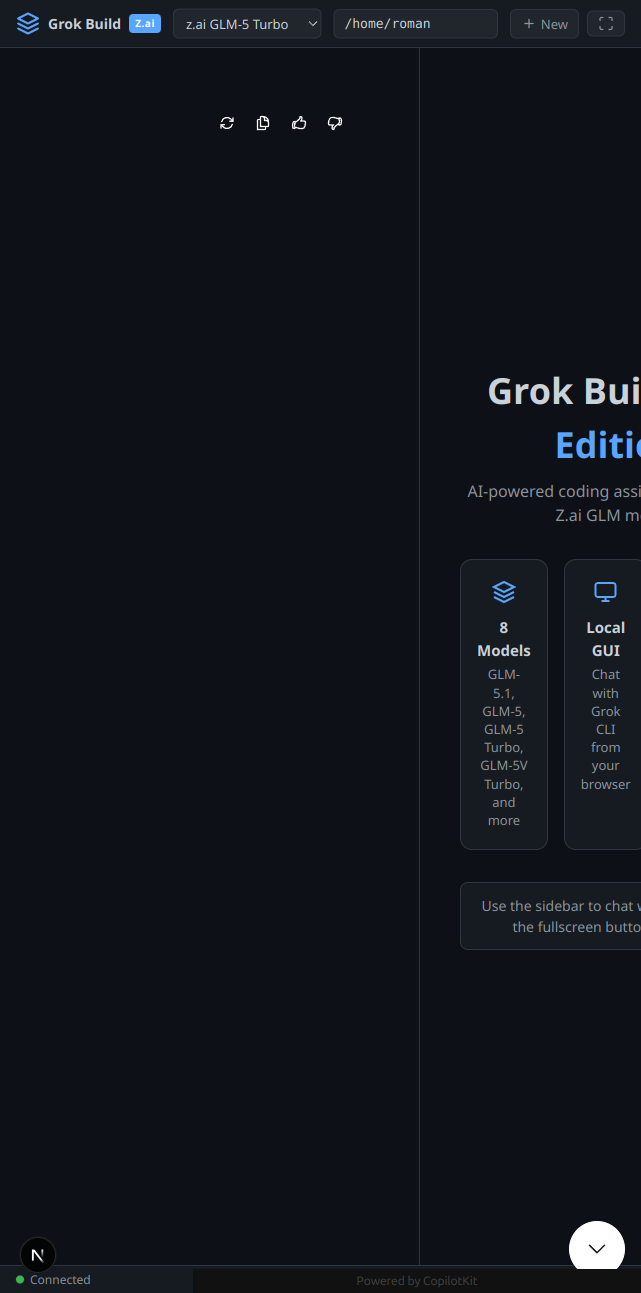
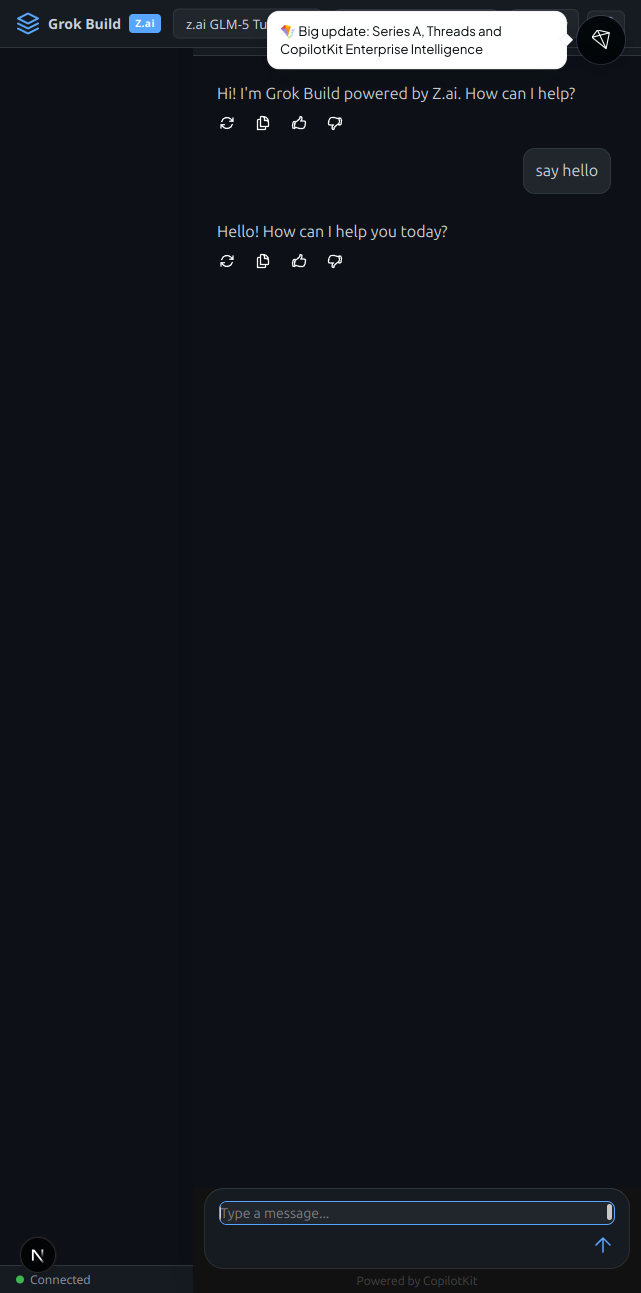
fix: CopilotKit AG-UI integration - working end-to-end chat
- Switch from runtimeUrl-only to HttpAgent with bound fetch (fixes Illegal invocation)
- Register agent as 'default' for automatic CopilotSidebar/CopilotChat discovery
- Add GET handler + info/threads sub-routes for CopilotKit runtime discovery
- Handle {method:'info'} POST for agent registration
- Use useCoAgent to sync model/cwd state to agent
- Update default model to zai-glm-5-turbo (matches current config)
- Improved extractPrompt with multi-role + multi-format support
- Updated screenshot showing working chat

diff --git a/gui/app/api/grok-agent/route.ts b/gui/app/api/grok-agent/route.ts
@@ -1,6 +1,8 @@
 /**
  * AG-UI Protocol Endpoint for Grok CLI.
- * Accepts CopilotKit POST requests, spawns Grok CLI, streams AG-UI SSE events.
+ * Handles:
+ *  - GET /api/grok-agent/info → runtime info for agent discovery
+ *  - POST /api/grok-agent → RunAgentInput → AG-UI SSE stream
  */
 
 import { NextRequest } from "next/server";
@@ -11,56 +13,120 @@ import { v4 as uuidv4 } from "uuid";
 export const dynamic = "force-dynamic";
 export const runtime = "nodejs";
 
+/** Runtime info endpoint — CopilotKit calls this on mount to discover agents */
+export async function GET(request: NextRequest) {
+  const url = new URL(request.url);
+  // CopilotKit fetches /api/grok-agent/info
+  // Return info about available agents
+  return new Response(
+    JSON.stringify({
+      version: "1.0.0",
+      agents: [
+        {
+          id: "default",
+          name: "Grok Build",
+          description: "Grok Build CLI powered by Z.ai GLM models",
+        },
+      ],
+      threads: [],
+    }),
+    { status: 200, headers: { "Content-Type": "application/json" } }
+  );
+}
+
+function extractPrompt(body: any): string {
+  const { messages } = body;
+
+  if (!messages || !Array.isArray(messages) || messages.length === 0) {
+    return body.prompt || body.input || body.query || "";
+  }
+
+  const userRoles = ["user", "human", "User", "Human"];
+  for (let i = messages.length - 1; i >= 0; i--) {
+    const msg = messages[i];
+    const role = msg.role || msg.type || "";
+    if (userRoles.includes(role)) {
+      if (typeof msg.content === "string") return msg.content;
+      if (Array.isArray(msg.content)) {
+        const textPart = msg.content.find((c: any) => c.type === "text" || c.text);
+        if (textPart) return textPart.text || textPart.content || "";
+      }
+      if (msg.text) return msg.text;
+    }
+  }
+
+  // Fallback: last message
+  const last = messages[messages.length - 1];
+  if (typeof last.content === "string") return last.content;
+  if (Array.isArray(last.content)) {
+    const textPart = last.content.find((c: any) => c.type === "text" || c.text);
+    if (textPart) return textPart.text || textPart.content || "";
+  }
+  return "";
+}
+
+function extractState(body: any): { model: string; cwd: string } {
+  const state = body.state || {};
+  const forwarded = body.forwardedProps?.state || body.forwardedProps || {};
+  return {
+    model: forwarded.model || state.model || "zai-glm-5-turbo",
+    cwd: forwarded.cwd || state.cwd || process.env.HOME || "/home/roman",
+  };
+}
+
 export async function POST(request: NextRequest) {
   try {
     const body = await request.json();
-    const { threadId, runId, messages, state } = body;
 
-    // Extract the last user message
-    const lastMessage = messages?.filter(
-      (m: { role: string }) => m.role === "user"
-    ).pop();
+    // Handle CopilotKit runtime info query
+    if (body.method === "info") {
+      return new Response(
+        JSON.stringify({
+          version: "1.0.0",
+          agents: [
+            { id: "default", name: "Grok Build", description: "Grok Build CLI powered by Z.ai GLM models" },
+          ],
+        }),
+        { status: 200, headers: { "Content-Type": "application/json" } }
+      );
+    }
 
-    if (!lastMessage) {
+    console.log("[grok-agent] Body keys:", Object.keys(body));
+    console.log("[grok-agent] Messages:", body.messages?.length || 0);
+
+    const { threadId, runId } = body;
+    const prompt = extractPrompt(body);
+    const { model, cwd } = extractState(body);
+
+    if (!prompt) {
+      // Dump full body for debugging
+      const bodyStr = JSON.stringify(body, null, 2);
+      console.log("[grok-agent] FULL BODY (no prompt found):");
+      console.log(bodyStr.substring(0, 3000));
+      if (body.messages) {
+        console.log("[grok-agent] Message roles:", body.messages.map((m: any) => ({ role: m.role, contentPreview: typeof m.content === 'string' ? m.content.substring(0,50) : JSON.stringify(m.content)?.substring(0,50) })));
+      }
       return new Response(
         JSON.stringify({ error: "No user message found" }),
         { status: 400, headers: { "Content-Type": "application/json" } }
       );
     }
 
-    const prompt = typeof lastMessage.content === "string"
-      ? lastMessage.content
-      : lastMessage.content?.[0]?.text || "";
-
-    const model = state?.model || "zai-glm-5.1";
-    const cwd = state?.cwd || process.env.HOME || "/home/roman";
-
     const effectiveThreadId = threadId || uuidv4();
     const effectiveRunId = runId || uuidv4();
 
-    // Create abort controller for cancellation support
+    console.log("[grok-agent] Prompt:", prompt.substring(0, 100), "| Model:", model);
+
     const abortController = new AbortController();
     request.signal?.addEventListener("abort", () => abortController.abort());
 
-    // Run Grok CLI and transform to AG-UI events
     const grokEvents = runGrok(
-      {
-        prompt,
-        model,
-        cwd,
-        sessionId: effectiveThreadId,
-        yolo: true,
-      },
+      { prompt, model, cwd, sessionId: effectiveThreadId, yolo: true },
       abortController.signal
     );
 
-    const agUiStream = transformGrokToAgUi(
-      grokEvents,
-      effectiveThreadId,
-      effectiveRunId
-    );
+    const agUiStream = transformGrokToAgUi(grokEvents, effectiveThreadId, effectiveRunId);
 
-    // Convert async generator to ReadableStream
     const encoder = new TextEncoder();
     const stream = new ReadableStream({
       async start(controller) {
@@ -92,10 +158,7 @@ export async function POST(request: NextRequest) {
   } catch (error) {
     console.error("Grok agent error:", error);
     return new Response(
-      JSON.stringify({
-        error: "Internal server error",
-        message: (error as Error).message,
-      }),
+      JSON.stringify({ error: "Internal server error", message: (error as Error).message }),
       { status: 500, headers: { "Content-Type": "application/json" } }
     );
   }

diff --git a/gui/app/api/grok-agent/info/route.ts b/gui/app/api/grok-agent/info/route.ts
@@ -1,0 +1,38 @@
+import { NextRequest } from "next/server";
+
+export const dynamic = "force-dynamic";
+export const runtime = "nodejs";
+
+/** GET /api/grok-agent/info — Runtime info for CopilotKit agent discovery */
+export async function GET(request: NextRequest) {
+  return new Response(
+    JSON.stringify({
+      version: "1.0.0",
+      agents: [
+        {
+          id: "default",
+          name: "Grok Build",
+          description: "Grok Build CLI powered by Z.ai GLM models",
+        },
+      ],
+    }),
+    { status: 200, headers: { "Content-Type": "application/json" } }
+  );
+}
+
+/** POST /api/grok-agent/info — Some clients POST to info */
+export async function POST(request: NextRequest) {
+  return new Response(
+    JSON.stringify({
+      version: "1.0.0",
+      agents: [
+        {
+          id: "default",
+          name: "Grok Build",
+          description: "Grok Build CLI powered by Z.ai GLM models",
+        },
+      ],
+    }),
+    { status: 200, headers: { "Content-Type": "application/json" } }
+  );
+}

diff --git a/gui/app/page.tsx b/gui/app/page.tsx
@@ -1,7 +1,8 @@
 "use client";
-import React, { useState, useCallback, useRef } from "react";
+import React, { useState, useCallback, useEffect } from "react";
 import { CopilotSidebar } from "@copilotkit/react-ui";
 import { CopilotChat } from "@copilotkit/react-ui";
+import { useCoAgent } from "@copilotkit/react-core";
 import { v4 as uuidv4 } from "uuid";
 import Toolbar from "@/components/toolbar";
 import StatusBar from "@/components/status-bar";
@@ -16,17 +17,18 @@ export default function Home() {
   const [sessionKey, setSessionKey] = useState(() => uuidv4());
   const [connected, setConnected] = useState(true);
 
+  // Get the agent and sync our model/cwd state to it
+  const { agent } = useCoAgent({ name: "default" });
+
+  useEffect(() => {
+    if (agent && selectedModel) {
+      agent.setState({ model: selectedModel, cwd: cwd });
+    }
+  }, [agent, selectedModel, cwd]);
+
   const handleNewSession = useCallback(() => {
     setSessionKey(uuidv4());
   }, []);
-
-  // Pass model and cwd as state to the CopilotKit agent via forwardedProps
-  const forwardedProps = {
-    state: {
-      model: selectedModel,
-      cwd: cwd,
-    },
-  };
 
   return (
     <div className="app-container">
@@ -51,7 +53,6 @@ export default function Home() {
                 initial: "Hi! I'm Grok Build powered by Z.ai. How can I help?",
               }}
               defaultOpen={true}
-              {...forwardedProps}
             />
           </div>
         )}
@@ -65,7 +66,6 @@ export default function Home() {
                   title: "Grok Build - Z.ai Edition",
                   initial: "Hi! I'm Grok Build powered by Z.ai. How can I help?",
                 }}
-                {...forwardedProps}
               />
             </div>
           ) : (
@@ -83,7 +83,7 @@ export default function Home() {
                       </svg>
                     </div>
                     <h3>{models.length} Models</h3>
-                    <p>GLM-5.1, GLM-5, GLM-5 Turbo, GLM-5V Turbo, and more</p>
+                    <p>GLM-5, GLM-5 Turbo, GLM-5V Turbo, and more</p>
                   </div>
                   <div className="info-card">
                     <div className="info-icon">

diff --git a/gui/app/layout.tsx b/gui/app/layout.tsx
@@ -1,8 +1,16 @@
 "use client";
 import React from "react";
 import { CopilotKit } from "@copilotkit/react-core";
+import { HttpAgent } from "@ag-ui/client";
 import "@copilotkit/react-ui/styles.css";
 import "./globals.css";
+
+const grokAgent = new HttpAgent({
+  agentId: "default",
+  url: "/api/grok-agent",
+  // Bind fetch to window to avoid "Illegal invocation" error
+  fetch: (...args: Parameters<typeof fetch>) => window.fetch(...args),
+});
 
 export default function RootLayout({
   children,
@@ -12,7 +20,10 @@ export default function RootLayout({
   return (
     <html lang="en" className="dark">
       <body>
-        <CopilotKit runtimeUrl="/api/grok-agent">
+        <CopilotKit
+          runtimeUrl="/api/grok-agent"
+          agents__unsafe_dev_only={{ default: grokAgent as any }}
+        >
           {children}
         </CopilotKit>
       </body>

diff --git a/gui/app/api/grok-agent/threads/route.ts b/gui/app/api/grok-agent/threads/route.ts
@@ -1,0 +1,12 @@
+import { NextRequest } from "next/server";
+
+export const dynamic = "force-dynamic";
+export const runtime = "nodejs";
+
+/** GET /api/grok-agent/threads — Thread listing (stub) */
+export async function GET(request: NextRequest) {
+  return new Response(
+    JSON.stringify({ threads: [] }),
+    { status: 200, headers: { "Content-Type": "application/json" } }
+  );
+}

diff --git a/gui/hooks/use-models.ts b/gui/hooks/use-models.ts
@@ -11,8 +11,8 @@ export interface ModelInfo {
 
 export function useModels() {
   const [models, setModels] = useState<ModelInfo[]>([]);
-  const [defaultModel, setDefaultModel] = useState("zai-glm-5.1");
-  const [selectedModel, setSelectedModel] = useState("zai-glm-5.1");
+  const [defaultModel, setDefaultModel] = useState("zai-glm-5-turbo");
+  const [selectedModel, setSelectedModel] = useState("zai-glm-5-turbo");
   const [loading, setLoading] = useState(true);
 
   useEffect(() => {
@@ -20,8 +20,9 @@ export function useModels() {
       .then((res) => res.json())
       .then((data) => {
         setModels(data.models || []);
-        setDefaultModel(data.defaultModel || "zai-glm-5.1");
-        setSelectedModel(data.defaultModel || "zai-glm-5.1");
+        const def = data.defaultModel || "zai-glm-5-turbo";
+        setDefaultModel(def);
+        setSelectedModel(def);
       })
       .catch((err) => console.error("Failed to fetch models:", err))
       .finally(() => setLoading(false));